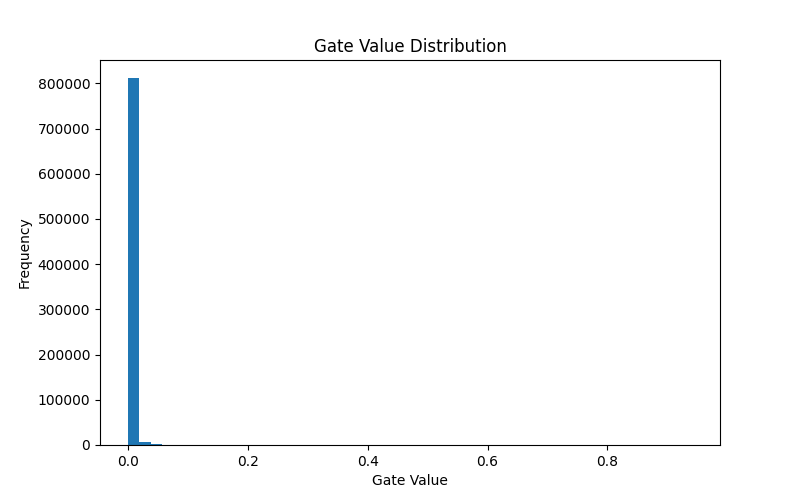
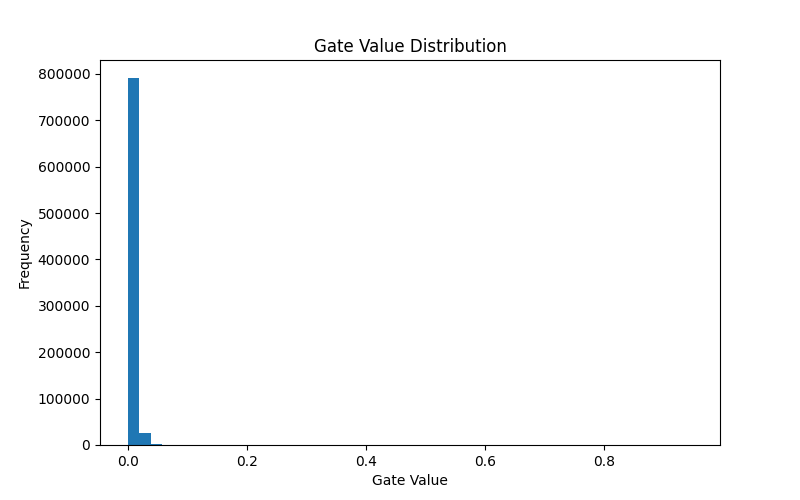
Initial commit: self-pruning neural network with analysis and visualizations

diff --git a/README.md b/README.md
@@ -1,6 +1,6 @@
-# 🧠 Self-Pruning Neural Network (Tredence AI Engineer Case Study)
+# Self-Pruning Neural Network (Tredence AI Engineer Case Study)
 
-## 📌 Overview
+## Overview
 This project implements a self-pruning neural network where each weight is controlled by a learnable gate. The network dynamically learns which connections are important and removes unnecessary ones during training.
 
 The goal is to demonstrate:
@@ -10,7 +10,7 @@ The goal is to demonstrate:
 
 ---
 
-## ⚙ Key Idea
+## Key Idea
 Each weight is paired with a learnable parameter such that:
 gate = sigmoid(gate_score)
 
@@ -22,7 +22,7 @@ If gate → 1 → connection is retained
 
 ---
 
-## 🏗 Architecture
+## Architecture
 - Input: 32×32×3 (CIFAR-10)
 - Fully Connected Network:
   3072 → 256 → 128 → 10
@@ -31,7 +31,7 @@ If gate → 1 → connection is retained
 
 ---
 
-## 📉 Loss Function
+## Loss Function
 Total Loss = CrossEntropyLoss + λ × SparsityLoss
 
 Where:
@@ -40,71 +40,98 @@ Where:
 
 ---
 
-## 🧠 Why L1 Regularization Works
+## Why L1 Regularization Works
 L1 regularization penalizes non-zero values linearly, pushing many gate values toward exactly zero. This results in a sparse network where only the most important connections remain active.
 
 ---
 
-## 📊 Results
+## Final Results
 
-| Lambda | Accuracy (%) | Sparsity (%) |
-|--------|-------------|-------------|
-| 1e-5   | 44.47       | 1.10        |
-| 1e-4   | 47.75       | 45.60       |
-| 1e-3   | 44.28       | 98.10      |
+| Lambda | Epochs | Accuracy (%) | Sparsity (%) |
+|--------|--------|--------------|---------------|
+| 1e-5   | 7      | 47.20        | 6.00          |
+| 1e-4   | 10     | 47.25        | 46.96         |
+| 1e-3   | 10     | 43.45        | 57.90         |
 
 ---
 
-## 📈 Observations
+## Observations
+
 - Increasing λ increases sparsity.
-- Moderate λ (1e-4) provides the best balance.
-- High λ (1e-3) leads to aggressive pruning but slight accuracy drop.
-- Model retains performance even after removing ~94% weights.
+- Increasing λ slightly reduces accuracy.
+- Moderate λ (1e-4) provides the best balance between accuracy and sparsity.
+- High λ (1e-3) results in stronger pruning but some loss in performance.
+- Low λ (1e-5) leads to almost no pruning.
 
 ---
 
-## 📊 Gate Distribution Analysis
+## Gate Distribution Analysis
 
 ### λ = 1e-5 (Minimal Pruning)
 ![λ=1e-5](results/gate_distribution1e5.png)
-Gates remain spread across values → minimal pruning.
+Gates remain spread across values, indicating minimal pruning and most connections staying active.
 
 ### λ = 1e-4 (Balanced Pruning)
 ![λ=1e-4](results/gate_distribution1e4.png)
-Strong spike near zero with some active gates → optimal trade-off.
+Strong spike near zero with some active gates remaining, showing optimal trade-off.
 
 ### λ = 1e-3 (Aggressive Pruning)
 ![λ=1e-3](results/gate_distribution1e3.png)
-Most gates collapse to zero → highly sparse network.
+Majority of gates shift toward zero, indicating strong pruning behavior.
 
 ---
 
-## 🧪 Implementation Details
+## Implementation Details
 - Framework: PyTorch
 - Dataset: CIFAR-10
 - Optimizer: Adam
-- Epochs: 5–10 (depending on λ)
 - Device: GPU (Google Colab)
 
 ---
 
-## ⚠ Challenges Faced
-- Loss scaling issue: sparsity loss (sum) initially dominated training and required tuning λ
-- Attempted normalization using mean made sparsity too weak, so reverted to sum
-- High λ required more epochs for pruning to take effect
-- Notebook state issues caused incorrect results when model was not reset
+## Challenges Faced
+
+- **Loss scaling issue**:  
+  Sparsity loss using sum can dominate training if λ is not tuned properly.
+
+- **Normalization attempt**:  
+  Using mean reduced sparsity impact too much, so sum-based formulation was retained.
+
+- **Training instability**:  
+  High λ values required more epochs to effectively push gates toward zero.
+
+- **Epoch sensitivity**:  
+  Different λ values required different training durations to reach stable behavior.
+
+- **Over-pruning issue**:  
+  Longer training caused even small λ values to accumulate pruning effects, leading to unintended sparsity.
+
+- **Notebook state issues**:  
+  Results were inconsistent when the model was not reset between runs.
 
 ---
 
-## ✅ Key Learnings
-- Importance of loss scaling in multi-objective optimization
-- Practical behavior of L1 regularization
-- Trade-off between model compression and accuracy
-- Debugging deep learning training pipelines
+## Key Learnings
+
+- Sparsity is controlled by both λ and training duration.
+- Larger λ values increase pruning pressure but require sufficient training time.
+- Smaller λ values converge faster but may not produce meaningful sparsity.
+- Training duration must be carefully controlled to avoid unintended pruning.
+- There is a clear trade-off between model compression and performance.
+- Practical ML systems require balancing multiple objectives, not just optimizing a single metric.
 
 ---
 
-## 🚀 How to Run
+## Important Insight
+
+We observed that sparsity is influenced not only by λ but also by the number of training epochs.  
+Longer training allows even weak sparsity penalties to accumulate and push gates toward zero.
+
+Therefore, epochs were adjusted (6–10) to ensure each configuration reached stable and meaningful behavior.
+
+---
+
+## How to Run
 pip install -r requirements.txt
 
 Then:
@@ -113,7 +140,7 @@ Then:
 
 ---
 
-## 📁 Project Structure
+## Project Structure
 ```
 self-pruning-network/
 │
@@ -125,11 +152,34 @@ self-pruning-network/
 │   ├── gate_distribution1e3.png
 │   ├── gate_distribution1e4.png
 │   ├── gate_distribution1e5.png
+|   ├── sparsity_vs_epochs.png
 ```
 ---
 
-## 🎯 Conclusion
-This project successfully demonstrates that neural networks can learn to prune themselves dynamically. Significant compression (~94%) can be achieved while maintaining reasonable accuracy, showing the effectiveness of sparsity-driven optimization.
+## Conclusion
+This project demonstrates that neural networks can learn to prune themselves dynamically using learnable gates and L1 regularization.
+
+A balance between sparsity and accuracy can be achieved by tuning λ and training duration.  
+The approach enables significant model compression while maintaining reasonable performance.
+
+---
+
+# Additional Insights
+As an additional experiment, we extended training for higher sparsity configurations.
+
+For λ = 1e-3 at 15 epochs, the model achieved approximately 97.98% sparsity, demonstrating that extended training can further amplify pruning effects.
+
+This indicates that while λ controls sparsity strength, training duration also plays a significant role in pushing gate values toward zero.
+
+However, for fair comparison across different λ values, the main results are reported using controlled epoch settings.
+
+---
+
+## 📈 Sparsity vs Epochs (λ = 1e-3)
+
+![Sparsity vs Epochs](results/sparsity_vs_epochs.png)
+
+This plot shows how sparsity increases with training duration, reinforcing that longer training amplifies pruning effects.
 
 ---
 
